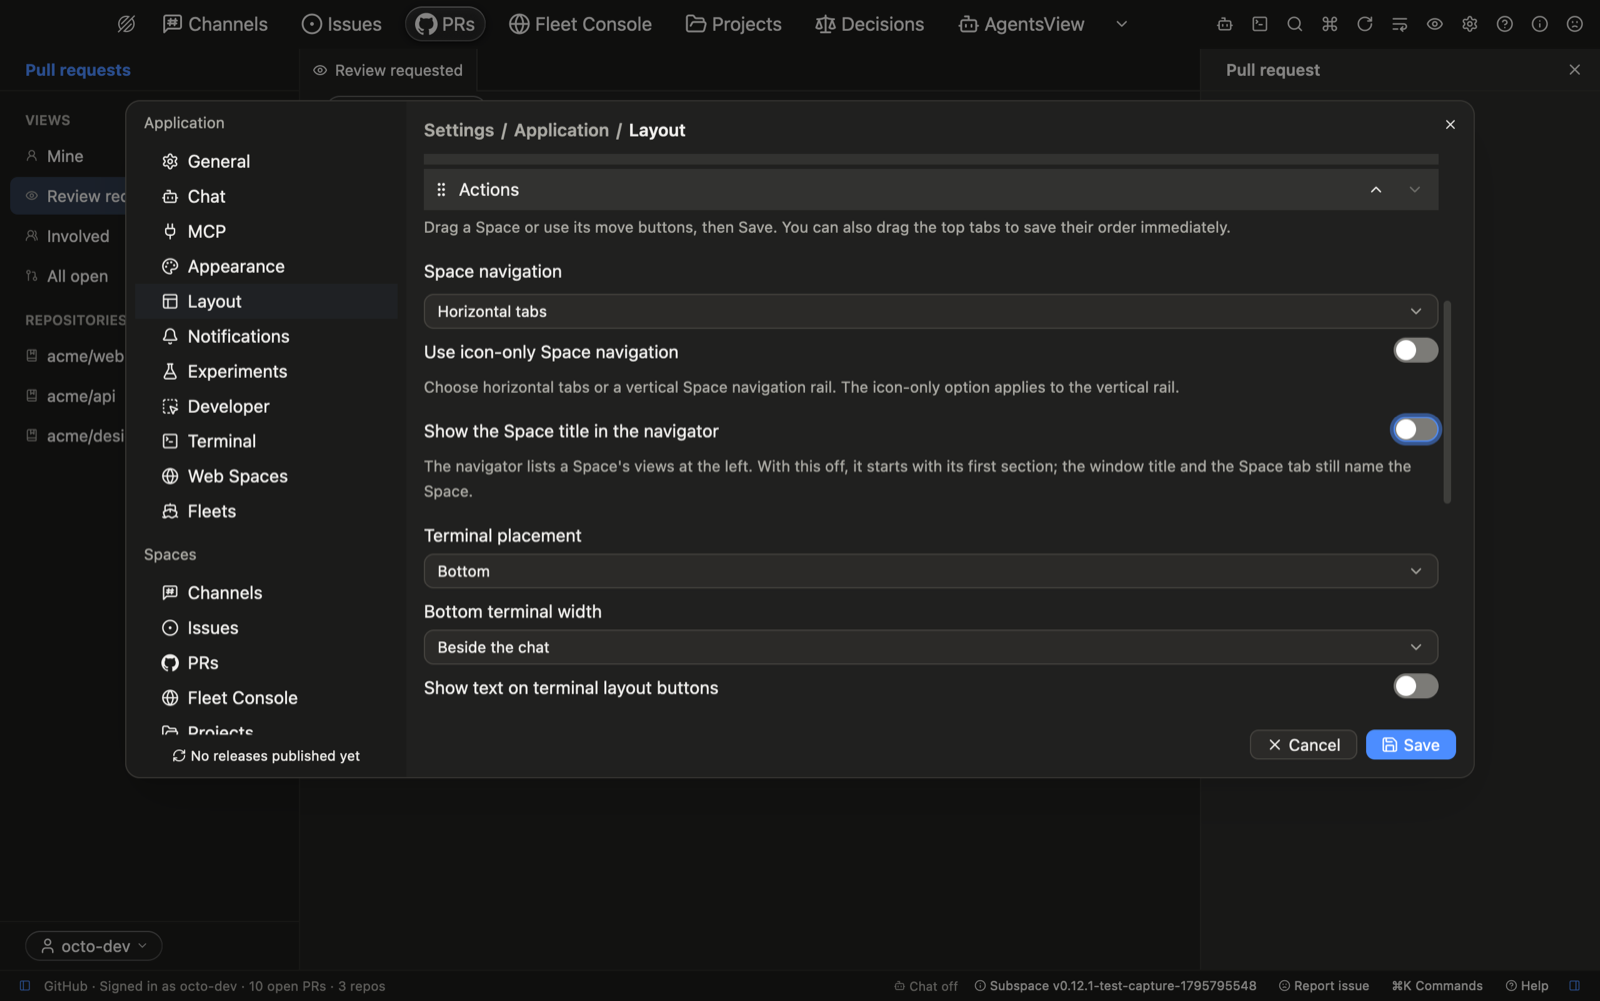
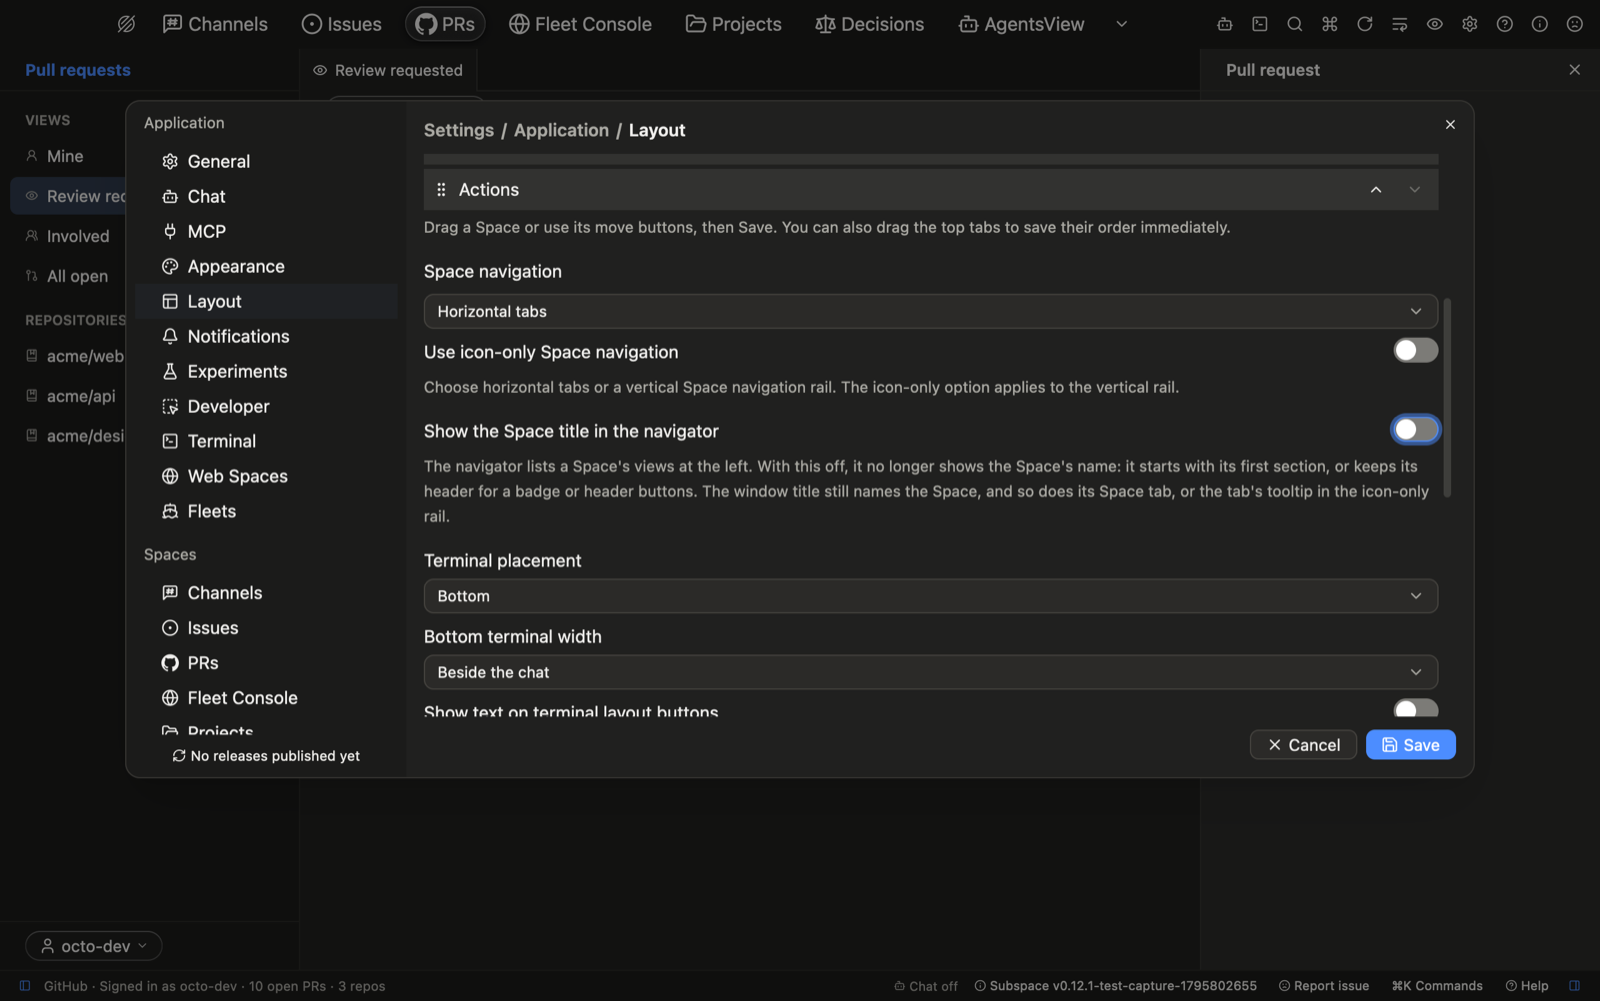
fix(framework): qualify the navigator title wording and note the upgrade
The Layout note and design guide rule 7 no longer claim the Space tab
always names the Space: in the icon-only rail only its tooltip does. They
say the switch hides the name and keeps any badge or header actions. The
Framework README notes that navigator_title: true keeps the old behaviour
for apps that build ProductBuild field by field. The change record covers
the review fixes, with a new Settings capture and the gallery card.

diff --git a/subspace-framework/host/app/src/settings/view/layout.rs b/subspace-framework/host/app/src/settings/view/layout.rs
@@ -109,7 +109,7 @@ fn navigator_title(settings: &Settings, tokens: &Tokens, cx: &mut Context<Settin
         ))
         .child(note(
             tokens,
-            "The navigator lists a Space's views at the left. With this off, it starts with its first section; the window title and the Space tab still name the Space.",
+            "The navigator lists a Space's views at the left. With this off, it no longer shows the Space's name: it starts with its first section, or keeps its header for a badge or header buttons. The window title still names the Space, and so does its Space tab, or the tab's tooltip in the icon-only rail.",
         ))
 }
 

diff --git a/subspace-framework/docs/changes/navigator-title-setting/README.md b/subspace-framework/docs/changes/navigator-title-setting/README.md
@@ -2,8 +2,9 @@
 
 ## Intent
 
-The navigator starts with the Space's name in the accent colour. The Space
-tab and the window title already name the Space, so some people and some
+The navigator starts with the Space's name in the accent colour. The window
+title and the Space tab, or the tab's tooltip in the icon-only rail, already
+name the Space, so some people and some
 apps want the navigator to start with its first section instead. A product
 built on the Framework asked for a way to hide the title by default, and
 for people to choose for themselves.
@@ -26,7 +27,18 @@ for people to choose for themselves.
   - a navigator with a badge or header actions keeps its header at the
     strip height without the title, so its hairline still lines up with
     the pane's tab strip.
+  - the badge and header actions stay on the trailing edge.
   The navigator always passes the title on as its tree's accessible name.
+- **Saving.** Settings stages the choice inside the state file write, which
+  restores the preferences if the write fails, and accepts the draft only
+  after the write succeeds.
+- **Who sets it.** The default global and the saved key are private. The
+  setters are public for the host app only and hidden from the docs, so a
+  Space cannot override the person's choice. The Component gallery uses a
+  hidden `navigator_title::preview` to show both hidden-title states.
+- **Breaking.** `ProductBuild` gains a public field, so an app that builds it
+  field by field must set `navigator_title`; `true` keeps the old
+  behaviour. The Framework README has an upgrade note.
 - **Design guide.** The navigator zone, the strip rule, rule 7 and the
   review checklist say what the setting does.
 
@@ -35,6 +47,12 @@ for people to choose for themselves.
 - `navigator_title_tests`: the title shows by default; a hidden default
   removes the header and the body starts at the navigator's top; a saved
   `"1"` shows the title over a hidden app default.
+- `navigator_title_tests`: with a badge and an action, a hidden title keeps
+  `workspace-navigator-header` at the strip height, lined up with the
+  pane's strip; the action stays trailing; the tree keeps the Space's name.
+- `toolbar_tests`: a failed state file write keeps the live title and the
+  draft.
+- Component gallery: the Navigator card draws both hidden-title states.
 - `pre_startup`: `ProductBuild::new` shows the title.
 - `toolbar_tests`: the Layout switch is a draft until Save, then saves
   `layout.navigator-title` as `"0"` and reopens with the switch off.
@@ -56,3 +74,8 @@ The switch turned off before Save: the navigator behind the dialog still
 shows the title, as the choice is a draft until Save.
 
 ![Settings › Layout with the switch off](evidence/settings-layout-switch-off.png)
+
+The Component gallery's Navigator card, with both hidden-title samples
+under the two existing ones:
+
+![Component gallery Navigator card](evidence/gallery-navigator-hidden-title.png)

diff --git a/subspace-framework/docs/design-guide.md b/subspace-framework/docs/design-guide.md
@@ -114,8 +114,10 @@ nothing to this control.
    time go through `Dashboard::status`. There is no large Space heading and
    no line of context above the content; the Space's name is the
    navigator's title. **Show the Space title in the navigator**
-   (Settings › Layout, saved as `layout.navigator-title`) can hide it; the
-   Space tab and the window title still name the Space. An app sets the
+   (Settings › Layout, saved as `layout.navigator-title`) can hide it,
+   keeping any badge or header actions. The window title still names the
+   Space, and so does its Space tab, or only the tab's tooltip in the
+   icon-only vertical rail. An app sets the
    default with `ProductBuild::navigator_title` (`true` in
    `ProductBuild::new`); a saved choice wins. Always pass the title to
    `Navigator::new`: it is the navigator tree's accessible name.

diff --git a/subspace-framework/README.md b/subspace-framework/README.md
@@ -188,6 +188,12 @@ fn main() -> ExitCode {
 }
 ```
 
+**Upgrading: `ProductBuild::navigator_title`.** An app that builds
+`ProductBuild` field by field, as above, must now set `navigator_title`.
+`navigator_title: true` keeps the old behaviour: navigators show the
+Space's title until someone hides it in Settings › Layout.
+`ProductBuild::new` sets `true` for you.
+
 ## Requirements for an app
 
 ```toml
